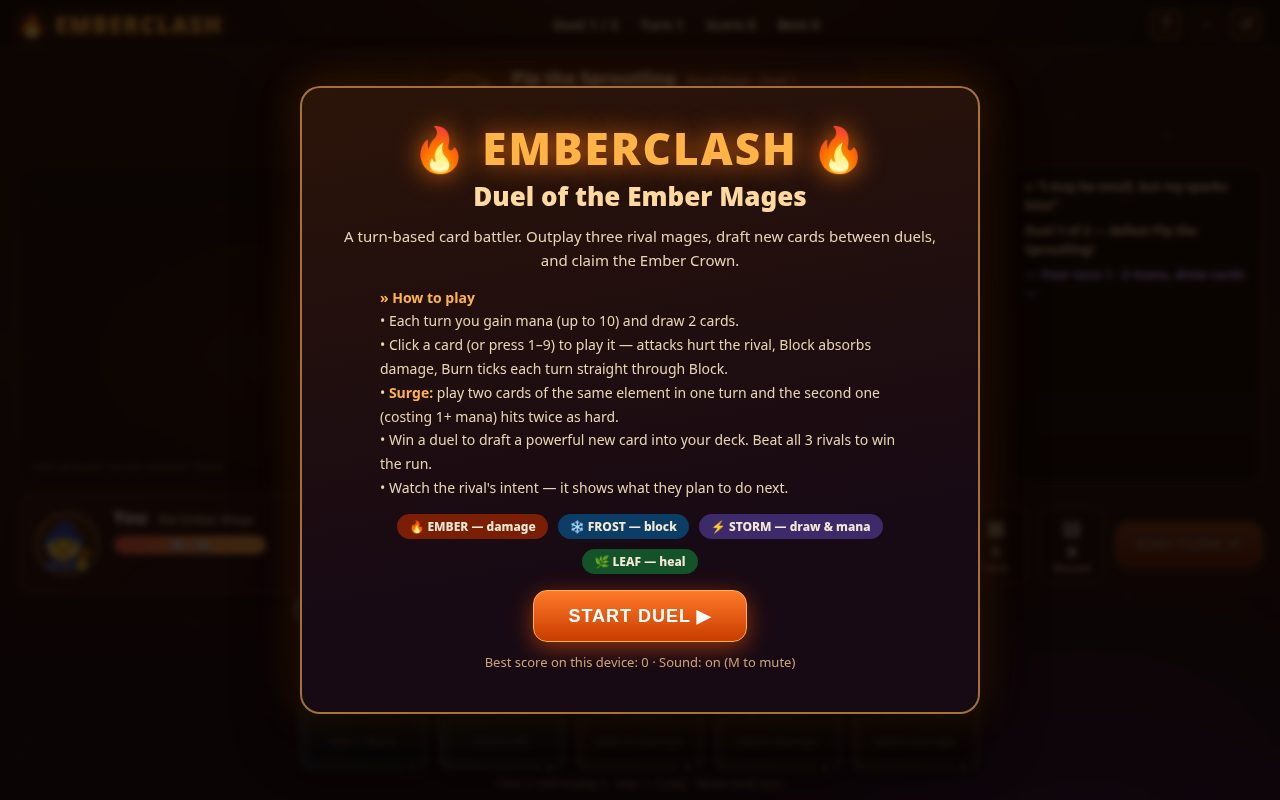
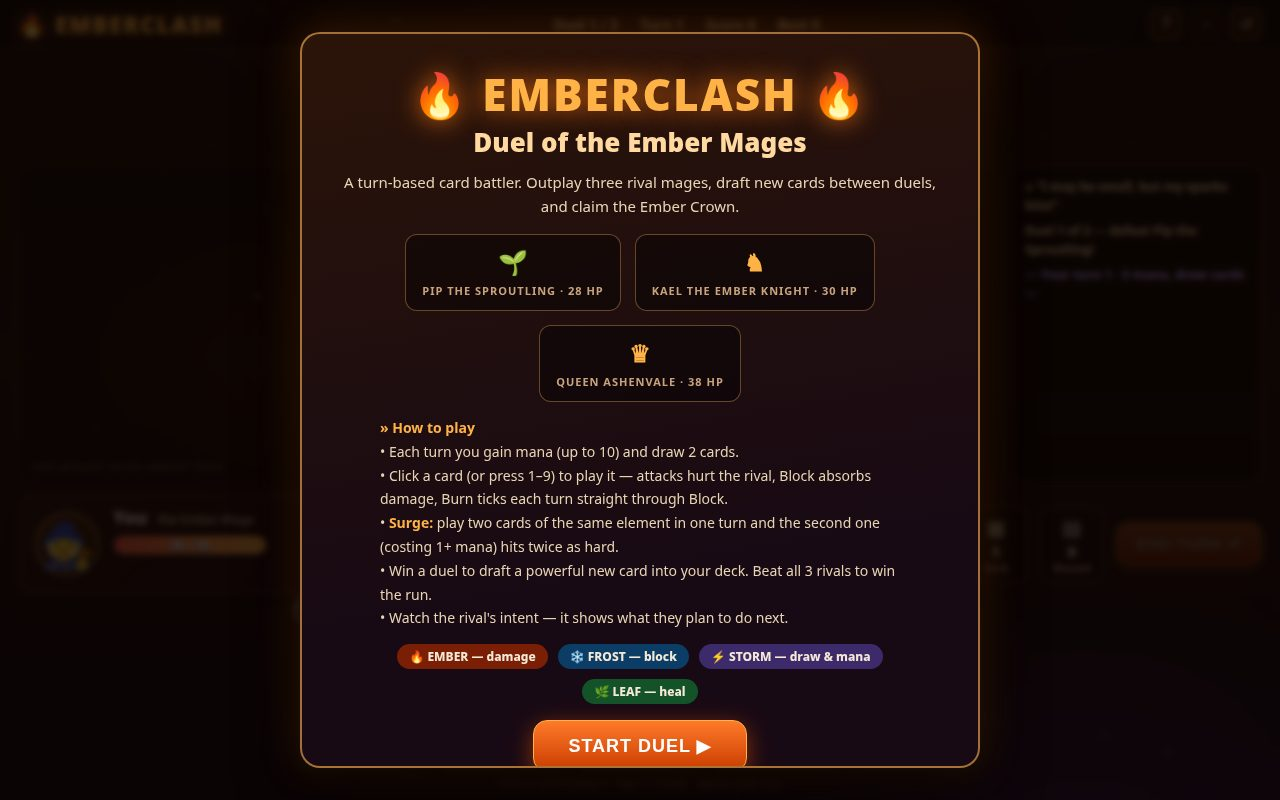
Balance: Kael 28 HP, no leaf-mend, one flame-lash; starter trades a Frost Ward for Ignite (burn pierces block); title shows rival preview

diff --git a/game/src/opponents.js b/game/src/opponents.js
@@ -13,9 +13,9 @@ export const OPPONENTS = [
   },
   {
     id: 'kael', name: 'Kael the Ember Knight', title: 'Rival Mage · Duel 2',
-    avatar: '♞', hp: 30, aggression: 0.5, guardBias: 0.3,
-    deck: ['ember-strike', 'ember-strike', 'flame-lash', 'flame-lash', 'ignite',
-           'frost-ward', 'frost-ward', 'spark-volley', 'stormcall', 'leaf-mend',
+    avatar: '♞', hp: 28, aggression: 0.5, guardBias: 0.3,
+    deck: ['ember-strike', 'ember-strike', 'flame-lash', 'ignite',
+           'frost-ward', 'frost-ward', 'spark-volley', 'stormcall',
            'thorn-whip', 'cinder-jab'],
     taunt: '“My blade is fire. My patience is not.”',
     lowHpTaunt: '“You dare scratch the Ember Knight?!”',

diff --git a/game/src/game.js b/game/src/game.js
@@ -576,6 +576,9 @@ export class Game {
       <h1>🔥 EMBERCLASH 🔥</h1>
       <h2>Duel of the Ember Mages</h2>
       <p>A turn-based card battler. Outplay three rival mages, draft new cards between duels, and claim the Ember Crown.</p>
+      <div class="statGrid">
+        ${OPPONENTS.map((o) => `<div class="stat"><b>${o.avatar}</b><span>${o.name.toUpperCase()} · ${o.hp} HP</span></div>`).join('')}
+      </div>
       <div class="rules">
         <b>» How to play</b><br>
         • Each turn you gain mana (up to 10) and draw 2 cards.<br>

diff --git a/game/src/cards.js b/game/src/cards.js
@@ -45,7 +45,7 @@ export function cardById(id) {
 export function buildStarterDeck() {
   return [
     'ember-strike', 'ember-strike', 'cinder-jab',
-    'frost-ward', 'frost-ward', 'frost-ward', 'flame-lash',
+    'frost-ward', 'frost-ward', 'flame-lash', 'ignite',
     'spark-volley', 'leaf-mend', 'thorn-whip',
   ];
 }
